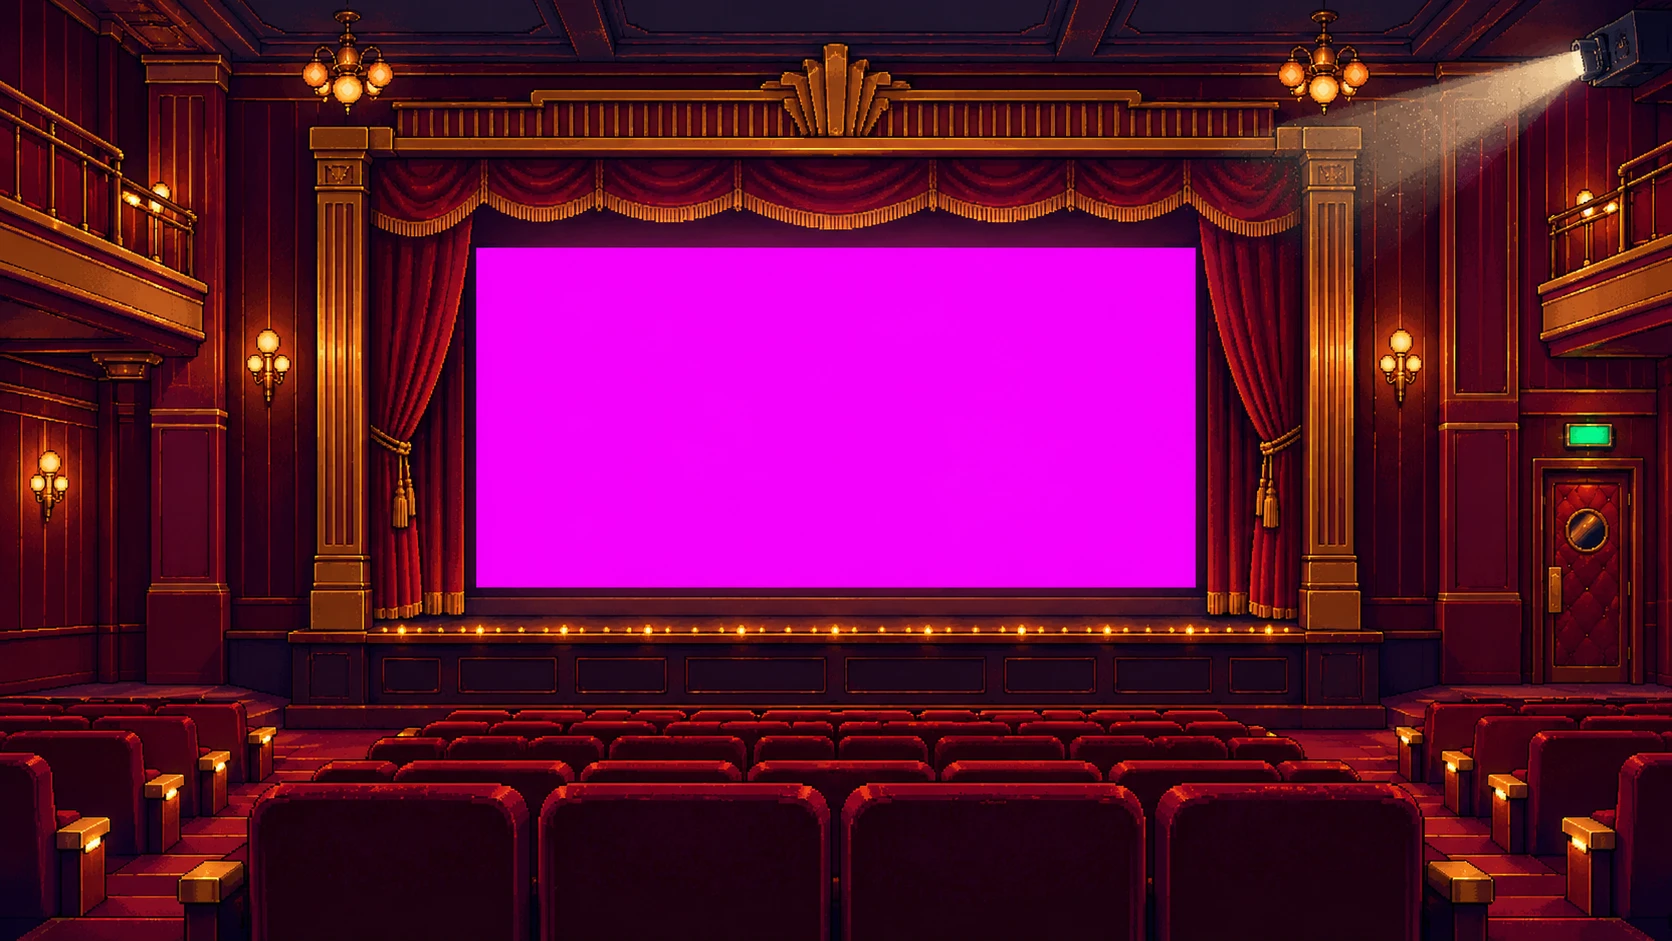
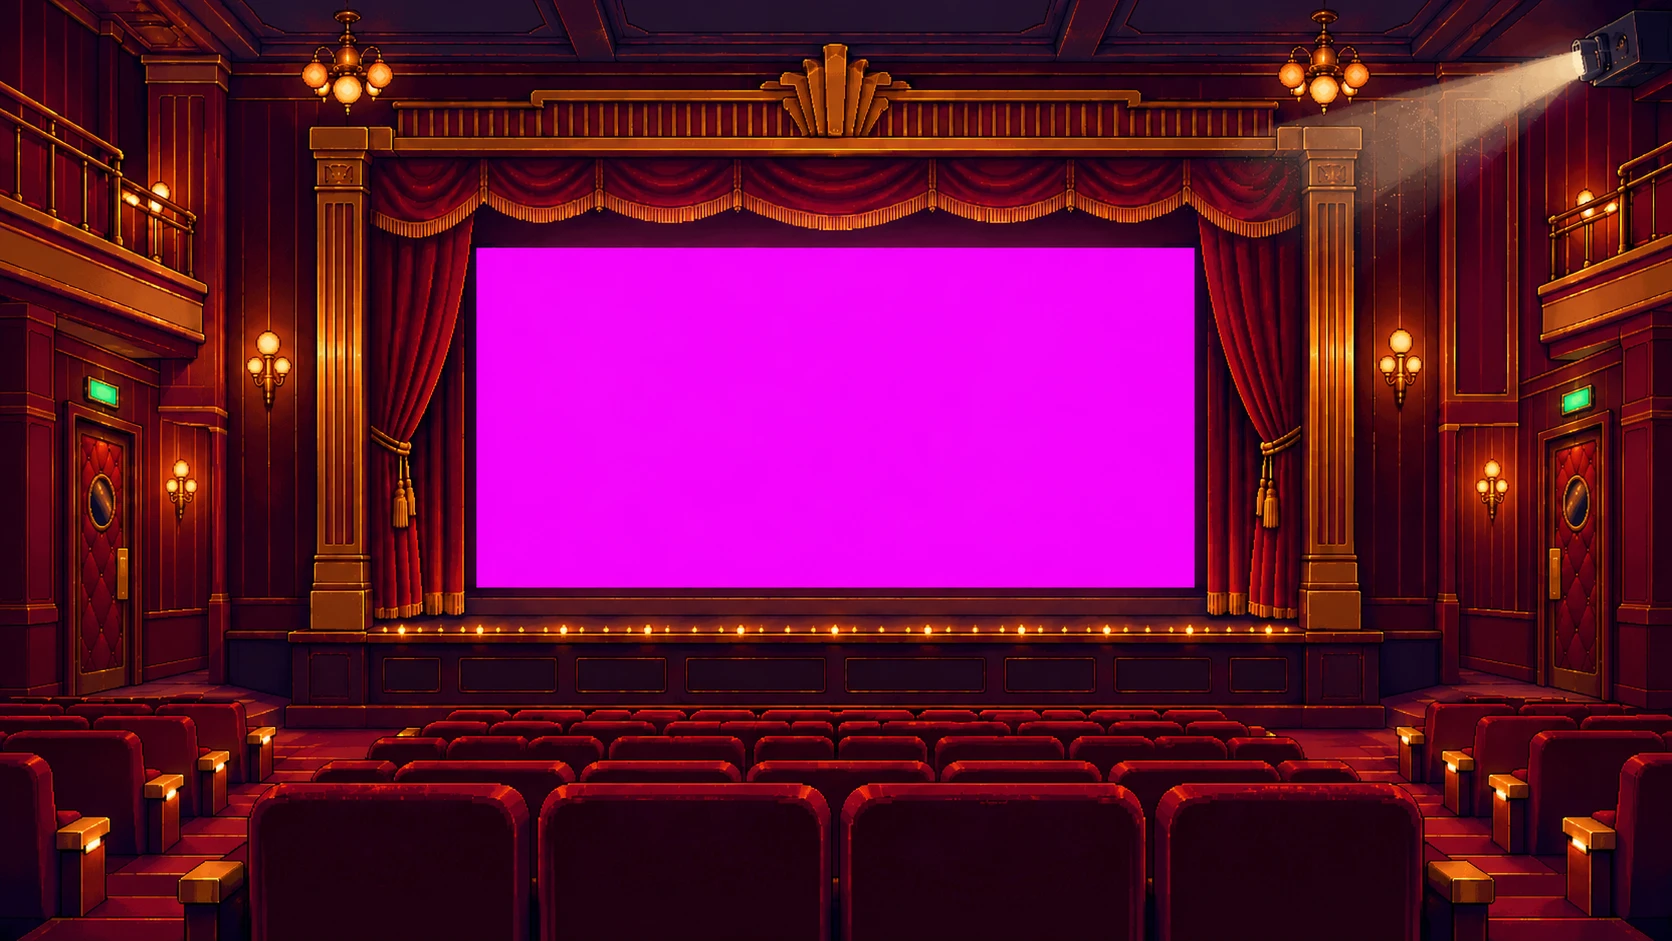
Cinema: new auditorium art; enter and leave by the left door
Swaps in the auditorium with doors on both sides (screen re-keyed and
re-measured). He comes in through the left door, walks to the stage,
turns right to watch the screen, then walks back out the same door
before the cut to the gallery.

diff --git a/js/main.js b/js/main.js
@@ -136,11 +136,11 @@
       },
     },
     front: {
-      screen: [477, 248, 718, 339],      // magenta area, keyed out; the reel plays behind it
+      screen: [476, 246, 720, 342],      // magenta area, keyed out; the reel plays behind it
       stage: [380, 640, 920, 64],        // front of the stage: reel controls live here
       rowTop: 700, rowH: 319,             // foreground seat row (assets/cinema/seat-row.webp)
-      door: 1590, doorH: 225, floor: 690, // side exit door he enters by; the aisle floor in front of it
-      stand: 1415,                        // where he stops beside the stage to watch
+      door: 105, doorH: 270, floor: 692,  // left exit door he enters and leaves by; the floor in front of it
+      stand: 235,                         // where he stops beside the stage to watch
     },
   };
 
@@ -348,17 +348,19 @@
     // standing near the screen he's further away than the seat row, so sized to the side door
     const k = Math.max(1, Math.round((F.doorH * fs * 0.8) / (170 * L.cs) * 2) / 2);
     const fx = (x) => front.x + front.ox + x * fs, fy = front.y + front.oy + F.floor * fs;
-    // he stops beside the stage, clear of the screen and controls (on phones: the right edge of the view)
-    const rightArt = (frontCam.x + vw - front.x - front.ox) / fs;
-    const enter = [fx(F.door), fy], spot = [fx(Math.min(F.stand, rightArt - 70)), fy];
+    // he stops beside the stage, left of the screen and controls (on phones: the left edge of the view)
+    const leftArt = (frontCam.x - front.x - front.ox) / fs;
+    const enter = [fx(F.door), fy], spot = [fx(Math.max(F.stand, leftArt + 70)), fy];
     add({ loc: "cinema", pose: "walk", a: door, b: enter, len: 260, ease: "cut", scale: k,
       cut: tri, cam: (t) => (t < 0.5 ? doorCam : frontCam) });
-    add({ loc: "cinema", pose: "walk", a: enter, b: spot, len: Math.max(160, enter[0] - spot[0]), scale: k,
+    add({ loc: "cinema", pose: "walk", a: enter, b: spot, len: Math.max(160, spot[0] - enter[0]), scale: k,
       bubble: ["Housefull!", 0.2, 0.9], cam: () => frontCam });
     // turns to the screen and watches (profile, looking up)
-    add({ id: "sit", loc: "cinema", pose: "watch", a: spot, b: spot, len: vh * 1.1, scale: k, cam: () => frontCam });
+    add({ id: "sit", loc: "cinema", pose: "watch", face: 1, a: spot, b: spot, len: vh * 1.1, scale: k, cam: () => frontCam });
+    // back out the same door, then a velvet cut to the gallery
+    add({ loc: "cinema", pose: "walk", a: spot, b: enter, len: Math.max(160, spot[0] - enter[0]), scale: k, cam: () => frontCam });
     const g0 = [exhibition.x, ty];
-    add({ loc: "cinema", loc2: "exhibition", pose: "watch", pose2: "walk", a: spot, b: g0, len: 260, ease: "cut", scale: k,
+    add({ loc: "cinema", loc2: "exhibition", pose: "walk", a: enter, b: g0, len: 260, ease: "cut", scale: k,
       cut: tri, cam: (t) => (t < 0.5 ? frontCam : { x: exhibition.x, y: ty - gy }) });
     const jx = exhibition.x + exhibition.w - vw * 0.15;
     add({ id: "gallery", loc: "exhibition", pose: "walk", a: [exhibition.x, ty], b: [jx, ty], len: (jx - exhibition.x) / 0.7 });
@@ -446,7 +448,7 @@
       case "land": anim = t < 0.6 ? "land" : "talk"; n = t < 0.25 ? 0 : t < 0.45 ? 1 : t < 0.6 ? 2 : tick(220); break;
       case "jump": anim = "jump"; n = Math.min(4, Math.floor(t * 5)); break;
       case "look": anim = "look"; n = tick(700); break;
-      case "watch": anim = tick(3200) % 4 === 3 ? "look" : "gaze"; n = tick(900); facing = -1; break;
+      case "watch": anim = tick(3200) % 4 === 3 ? "look" : "gaze"; n = tick(900); facing = s.face || -1; break;
       case "sit": anim = s.prop === "chai" ? "chai" : "cinema"; n = tick(s.prop === "chai" ? 650 : 500); break;
     }
     const flips = ["walk", "run", "idle", "talk", "point", "look", "gaze"].includes(anim);
@@ -472,7 +474,7 @@
       }
     }
     const w = Sprite.W * L.cs, h = Sprite.H * L.cs;
-    const scale = s.scale && !(cutSide && s.pose2) ? s.scale : 1;
+    const scale = s.scale && !(cutSide && s.loc2) ? s.scale : 1;
     const bob = Sprite.bob(anim, n) * L.cs;
     charEl.style.transform = `translate3d(${Math.round(p.x - w / 2)}px, ${Math.round(p.y - h + bob)}px, 0)` + (scale !== 1 ? ` scale(${scale})` : "");
     charEl.style.setProperty("--face", flips ? facing : 1);

diff --git a/index.html b/index.html
@@ -8,7 +8,7 @@
   <link rel="preconnect" href="https://fonts.googleapis.com" />
   <link rel="preconnect" href="https://fonts.gstatic.com" crossorigin />
   <link href="https://fonts.googleapis.com/css2?family=Press+Start+2P&family=Silkscreen&family=VT323&family=Noto+Sans+Devanagari:wght@700&display=swap" rel="stylesheet" />
-  <link rel="stylesheet" href="styles.css?v=1790695619" />
+  <link rel="stylesheet" href="styles.css?v=1790702754" />
 </head>
 <body class="ride" data-location="street">
   <a class="skip-link" href="#subway">Skip to projects</a>
@@ -157,9 +157,9 @@
   <!-- train wipe used when boarding a project -->
   <div class="train-wipe" aria-hidden="true"><div class="train-car"></div></div>
 
-  <script src="js/data.js?v=1790695619"></script>
-  <script src="js/sprite.js?v=1790695619"></script>
-  <script src="js/scenes.js?v=1790695619"></script>
-  <script src="js/main.js?v=1790695619"></script>
+  <script src="js/data.js?v=1790702754"></script>
+  <script src="js/sprite.js?v=1790702754"></script>
+  <script src="js/scenes.js?v=1790702754"></script>
+  <script src="js/main.js?v=1790702754"></script>
 </body>
 </html>

diff --git a/project.html b/project.html
@@ -7,8 +7,8 @@
   <link rel="preconnect" href="https://fonts.googleapis.com" />
   <link rel="preconnect" href="https://fonts.gstatic.com" crossorigin />
   <link href="https://fonts.googleapis.com/css2?family=Press+Start+2P&family=Silkscreen&family=VT323&family=Noto+Sans+Devanagari:wght@700&display=swap" rel="stylesheet" />
-  <link rel="stylesheet" href="styles.css?v=1790695619" />
-  <link rel="stylesheet" href="project.css?v=1790695619" />
+  <link rel="stylesheet" href="styles.css?v=1790702754" />
+  <link rel="stylesheet" href="project.css?v=1790702754" />
 </head>
 <body class="project-page" data-location="subway">
   <header class="hud">
@@ -63,7 +63,7 @@
 
   <div class="pixel-wipe" aria-hidden="true"></div>
 
-  <script src="js/data.js?v=1790695619"></script>
+  <script src="js/data.js?v=1790702754"></script>
   <script>
     (function () {
       const list = SITE.projects;

diff --git a/js/sprite.js b/js/sprite.js
@@ -34,7 +34,7 @@
   const HOLE = { dx: 35, w: 64, h: 16 }; // manhole centre offset from the anchor, in the crouch frames
 
   const img = new Image();
-  img.src = "assets/character/sheet.webp?v=1790695619";
+  img.src = "assets/character/sheet.webp?v=1790702754";
   let ready = false;
   const onReady = [];
   img.onload = () => { ready = true; onReady.forEach((f) => f()); };
